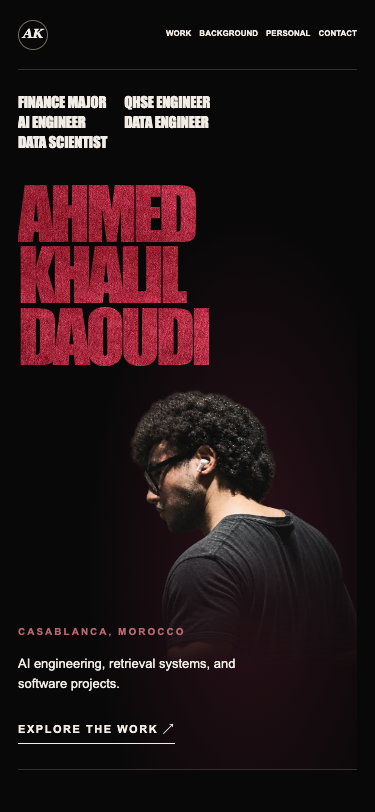
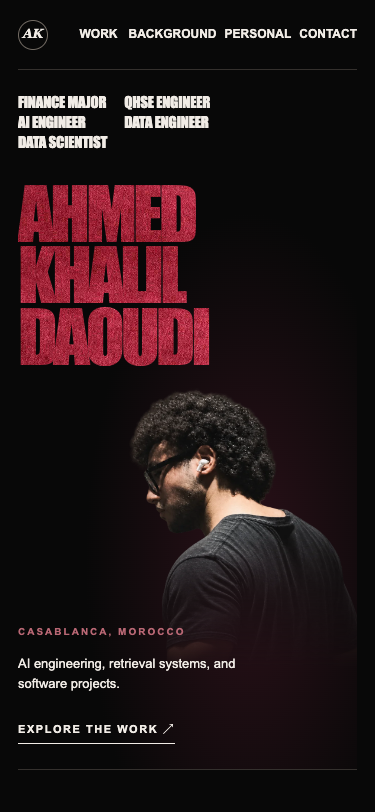
Fix mobile navigation and document acceptance recheck

Changed region(s): [[0.352, 0.0308, 0.968, 0.0616], [0.2053, 0.0308, 0.3227, 0.0616]]

diff --git a/index.html b/index.html
@@ -1,4 +1,4 @@
-<!doctype html><html lang="en"><head><meta charset="utf-8"><meta name="viewport" content="width=device-width, initial-scale=1"><meta name="theme-color" content="#080808"><meta name="description" content="Ahmed Khalil Daoudi is based in Casablanca and works on AI engineering, retrieval systems, and software projects. Explore his work and personal interests."><link rel="canonical" href="https://daoudiahmedkhalil.com/"><meta property="og:type" content="website"><meta property="og:url" content="https://daoudiahmedkhalil.com/"><meta property="og:title" content="Ahmed Khalil Daoudi"><meta property="og:description" content="Work, background, and personal interests of Ahmed Khalil Daoudi in Casablanca, Morocco."><meta property="og:image" content="https://daoudiahmedkhalil.com/assets/khalil-cutout-v3.webp"><meta name="twitter:card" content="summary_large_image"><title>Ahmed Khalil Daoudi</title><style>    :root { color-scheme: dark; --bg:#080808; --panel:#121110; --ink:#f1ece6; --muted:#aaa39c; --line:#34302d; --accent:#b96774; font-family:Arial,Helvetica,sans-serif; background:var(--bg); color:var(--ink); }
+<!doctype html><html lang="en"><head><meta charset="utf-8"><meta name="viewport" content="width=device-width, initial-scale=1"><link rel="icon" href="data:,"><meta name="theme-color" content="#080808"><meta name="description" content="Ahmed Khalil Daoudi is based in Casablanca and works on AI engineering, retrieval systems, and software projects. Explore his work and personal interests."><link rel="canonical" href="https://daoudiahmedkhalil.com/"><meta property="og:type" content="website"><meta property="og:url" content="https://daoudiahmedkhalil.com/"><meta property="og:title" content="Ahmed Khalil Daoudi"><meta property="og:description" content="Work, background, and personal interests of Ahmed Khalil Daoudi in Casablanca, Morocco."><meta property="og:image" content="https://daoudiahmedkhalil.com/assets/khalil-cutout-v3.webp"><meta name="twitter:card" content="summary_large_image"><title>Ahmed Khalil Daoudi</title><style>    :root { color-scheme: dark; --bg:#080808; --panel:#121110; --ink:#f1ece6; --muted:#aaa39c; --line:#34302d; --accent:#b96774; font-family:Arial,Helvetica,sans-serif; background:var(--bg); color:var(--ink); }
     * { box-sizing:border-box; }
     html { scroll-behavior:smooth; }
     body { margin:0; line-height:1.55; }
@@ -9,6 +9,7 @@
     .brand { display:flex; align-items:center; gap:12px; font-size:11px; font-weight:700; text-transform:uppercase; letter-spacing:.16em; }
     .brand-mark { display:grid; place-items:center; width:34px; height:34px; border:1px solid #716a62; border-radius:50%; font-family:Georgia,serif; font-size:13px; font-style:italic; letter-spacing:0; }
     nav { display:flex; gap:34px; font-size:10px; font-weight:700; letter-spacing:.17em; text-transform:uppercase; }
+    nav a { display:inline-flex; align-items:center; justify-content:center; min-height:44px; min-width:44px; }
     nav a:hover, .text-link:hover { color:var(--accent); }
     section { scroll-margin-top:25px; }
     .hero { min-height:720px; position:relative; overflow:hidden; border-bottom:1px solid var(--line); }
@@ -60,12 +61,12 @@
 .contact{padding:110px 0}.contact-links{display:flex;gap:30px;flex-wrap:wrap;margin-top:35px}
 footer{display:flex;justify-content:space-between;gap:20px;padding:25px 0 42px;border-top:1px solid var(--line);color:#8f8881;font-size:11px}
 @media(max-width:900px){.section{padding:75px 0}.intro,.facts{gap:35px}.gallery{grid-template-columns:repeat(3,minmax(0,1fr))}}
-@media(max-width:600px){nav{gap:8px;font-size:8px;letter-spacing:0}nav a:nth-child(1),nav a:nth-child(3){display:block}.section-head{display:block}.section-head h2{margin-top:15px}.intro,.facts{grid-template-columns:1fr}.project{grid-template-columns:2.5rem 1fr;gap:13px}.project-status{grid-column:2;text-align:left}.gallery{grid-template-columns:repeat(2,minmax(0,1fr));gap:20px 13px}.collection-head{align-items:start;flex-direction:column;gap:2px}.section h2,.contact h2{font-size:clamp(47px,13vw,70px)}.contact{padding:90px 0}footer{flex-direction:column}}
+@media(max-width:600px){nav{gap:8px;font-size:12px;letter-spacing:0}.section-head{display:block}.section-head h2{margin-top:15px}.intro,.facts{grid-template-columns:1fr}.project{grid-template-columns:2.5rem 1fr;gap:13px}.project-status{grid-column:2;text-align:left}.gallery{grid-template-columns:repeat(2,minmax(0,1fr));gap:20px 13px}.collection-head{align-items:start;flex-direction:column;gap:2px}.section h2,.contact h2{font-size:clamp(47px,13vw,70px)}.contact{padding:90px 0}footer{flex-direction:column}}
 @media(prefers-reduced-motion:reduce){html{scroll-behavior:auto}}
 
 @media (min-width:901px) and (max-height:950px) { .hero{min-height:650px} .hero-name{font-size:clamp(76px,12vw,170px)} .portrait{height:560px} }
 @media (max-width:900px) { .shell{width:min(100% - 36px,700px)} .hero{min-height:650px} .hero-name{font-size:clamp(58px,14.5vw,110px)} .portrait{height:60%;right:5%} }
-@media (max-width:600px) { .masthead{min-height:70px} .brand{font-size:9px;letter-spacing:.06em} .brand-mark{width:30px;height:30px} nav{gap:8px;font-size:8px;letter-spacing:0} .hero{min-height:700px} .hero-top{padding-top:25px} .role-stack{display:grid;grid-template-columns:repeat(2,max-content);gap:5px 17px;font-size:15px;line-height:1} .hero-name{top:115px;left:0;right:0;font-size:clamp(66px,19vw,82px);text-align:left} .portrait{top:318px;height:430px;right:-15%;-webkit-mask-image:linear-gradient(to bottom,#000 0 35%,transparent 65%);mask-image:linear-gradient(to bottom,#000 0 35%,transparent 65%)} .hero-bottom{bottom:25px} .hero-bottom p{max-width:245px;font-size:13px} .scroll-cue{display:none} }
+@media (max-width:600px) { .masthead{min-height:70px} .brand{font-size:9px;letter-spacing:.06em} .brand-mark{width:30px;height:30px} nav{gap:8px;font-size:12px;letter-spacing:0} .hero{min-height:700px} .hero-top{padding-top:25px} .role-stack{display:grid;grid-template-columns:repeat(2,max-content);gap:5px 17px;font-size:15px;line-height:1} .hero-name{top:115px;left:0;right:0;font-size:clamp(66px,19vw,82px);text-align:left} .portrait{top:318px;height:430px;right:-15%;-webkit-mask-image:linear-gradient(to bottom,#000 0 35%,transparent 65%);mask-image:linear-gradient(to bottom,#000 0 35%,transparent 65%)} .hero-bottom{bottom:25px} .hero-bottom p{max-width:245px;font-size:13px} .scroll-cue{display:none} }
 </style></head><body>
   <header class="masthead shell"><a class="brand" href="#top" aria-label="Ahmed Khalil Daoudi, home"><span class="brand-mark">AK</span></a><nav aria-label="Main navigation"><a href="#work">Work</a><a href="#background">Background</a><a href="#personal">Personal</a><a href="#contact">Contact</a></nav></header>
   <main id="top" class="shell">

diff --git a/docs/review/VERIFICATION.md b/docs/review/VERIFICATION.md
@@ -1,0 +1,28 @@
+# Verification — 13 November 2026
+
+Verdict: draft; the redesign does not yet meet every acceptance criterion.
+
+## Confirmed
+
+- Chrome tested through a local HTTP server at 375×812, 430×932, 768×1024, 1024×768, 1440×900, and 1920×1080.
+- At every size: no horizontal document overflow, missing internal anchor targets, current-page console errors, or failed page resource requests. All six included images decode after lazy loading.
+- The computed geometry, typography, stacking, background, and mask of the hero, name, portrait, and role stack match `main` at every tested size. The original portrait and texture files are unchanged.
+- Reduced-motion emulation changes scrolling to `auto`.
+- Four selected projects, seven games, four films, six books, six fragrances, and the three requested sports are present as content. Only five collection entries currently have artwork.
+- GitHub project/profile URLs, Instagram URL, and the existing visual-credit URL returned HTTP 200. LinkedIn returned an automated-access block (999); its destination could not be verified by this check.
+- The two repository tests and `git diff --check` pass. Those static tests alone do not prove visual completeness or accessibility.
+
+## Corrections made during recheck
+
+- Mobile navigation was only 8px with 12.4px-high links. It now uses 12px text, and navigation targets are at least 44×44px across tested sizes.
+- The site had no favicon declaration and HTTP browsing requested a missing favicon. An explicit empty favicon prevents that unnecessary 404.
+- Updated screenshots reflect these changes.
+
+## Unmet criteria and limitations
+
+- 18 of 23 artwork slots remain placeholders: four film posters, seven game images, six fragrance photos, and The Death of Ivan Ilyich cover. This includes the required clean Bloodborne and Ghost of Tsushima art. The image-first acceptance criterion is not met.
+- At 375px, the original hero name ends around y=366 and the portrait image begins at y=388. The mobile composition is preserved, but it does not produce actual name/portrait overlap. This is inherited from `main`; the brief's highest-priority requirement to preserve the hero took precedence over changing it.
+- Hermes implementation, public email, and favorite albums remain unconfirmed. No project screenshot is included.
+- This pass did not independently repeat the external artwork-license or project-code research. It does not establish Safari/Firefox behavior, real-device behavior, or full assistive-technology accessibility.
+
+No merge or deployment was performed.
